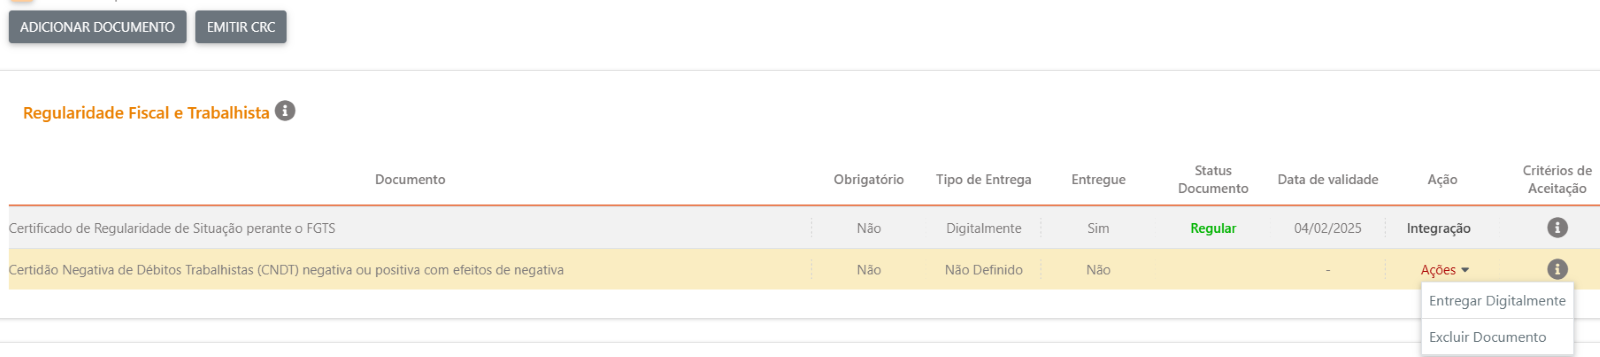
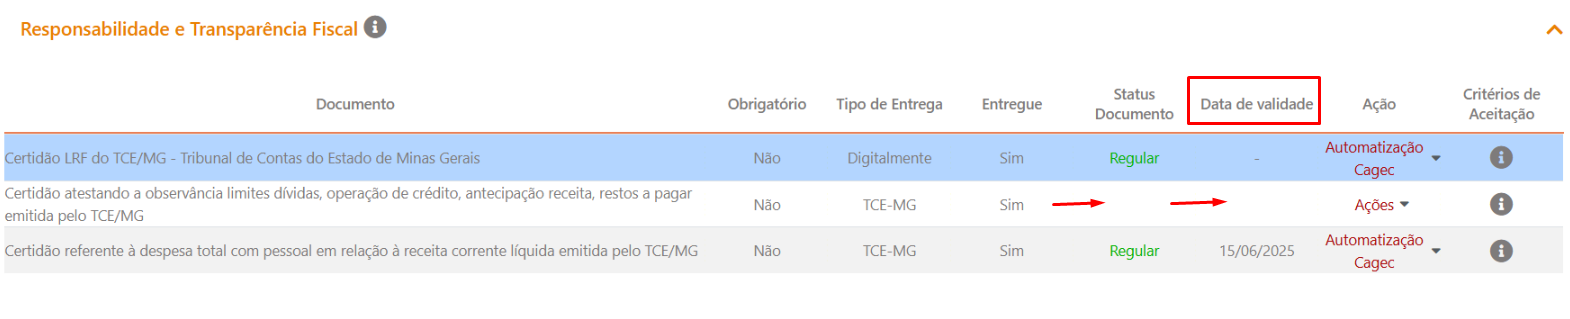
GITBOOK-320: jessica.ribeiro's Mar 25 changes

diff --git a/como-fazer-upload-ou-anexar-documentos/procedimento-informatizado-de-analise-documental-piad/cartilha-de-uso-do-piad/tutorial.md b/como-fazer-upload-ou-anexar-documentos/procedimento-informatizado-de-analise-documental-piad/cartilha-de-uso-do-piad/tutorial.md
@@ -11,7 +11,7 @@ Ao criar sua solicitação de atualização de documentos/alteração de dados, 
 
 1. Escolha a opção “Entregar Digitalmente” em Ações, e a mensagem abaixo será exibida:
 
-<figure><img src="../../../.gitbook/assets/image (1).png" alt=""><figcaption></figcaption></figure>
+<figure><img src="../../../.gitbook/assets/image (1) (1).png" alt=""><figcaption></figcaption></figure>
 
 Após apertar OK a tela abaixo será exibida para que anexe seu documento.&#x20;
 
@@ -88,7 +88,11 @@ Repare que ao anexar o arquivo, o status do campo  “Ações” será preenchid
 
 <figure><img src="../../../.gitbook/assets/image (11).png" alt=""><figcaption></figcaption></figure>
 
-Continue anexando demais documentos (_tutorial anexar docs/solicitação_) para prosseguir.&#x20;
+OBS: Após o fluxo "<mark style="color:green;">**satisfatório**</mark>" acima, caso algum do itens do documento fique com status em **branco**, preencha a data de validade clicando em "ações":
+
+<figure><img src="../../../.gitbook/assets/image.png" alt=""><figcaption></figcaption></figure>
+
+Continue anexando os demais documentos ([_tutorial anexar docs/solicitação_](../../../dados-e-documentos-necessarios-para-a-regularidade-da-instituicao/)) para prosseguir.&#x20;
 
 Após isso, basta clicar em "encaminhar solicitação para análise" para finalizar e enviar sua solicitação.&#x20;
 

diff --git a/como-fazer-upload-ou-anexar-documentos/procedimento-informatizado-de-analise-documental-piad/README.md b/como-fazer-upload-ou-anexar-documentos/procedimento-informatizado-de-analise-documental-piad/README.md
@@ -6,10 +6,12 @@ A automatização de documentos via procedimento informatizado de análise docum
 
 A análise dos documentos de regularidade do Cagec passará a ser parcialmente automatizada conforme a implantação do projeto. Isso vai gerar mudanças significativas, especialmente em termos de eficiência, acessibilidade e economia de recursos na gestão e análise dos documentos.
 
-Nesta fase inicial, apenas alguns documentos estarão no rol do PIAD: [**CAUC**](#user-content-fn-1)[^1] e [**CNDT**](#user-content-fn-2)[^2].
+Nesta fase inicial, apenas alguns documentos estarão no rol do PIAD: [**CAUC**](#user-content-fn-1)[^1]**,** [**CNDT**](#user-content-fn-2)[^2] e [**TCE-LRF**](#user-content-fn-3)[^3]**.**
 
 Caso você tenha que anexar uns deses documento acima, clique no botão abaixo à direita para conhecer um pouco mais sobre a cartilha de uso e tutorial.
 
 [^1]: Extrato do Serviço Auxiliar de Informações para Transferências Voluntárias (CAUC)
 
 [^2]: Certidão Negativa de Débitos Trabalhistas
+
+[^3]: Certidão emitida pelo Tribunal de Contas do Estado MG para atestar informações da Lei de Responsabilidade Fiscal.
